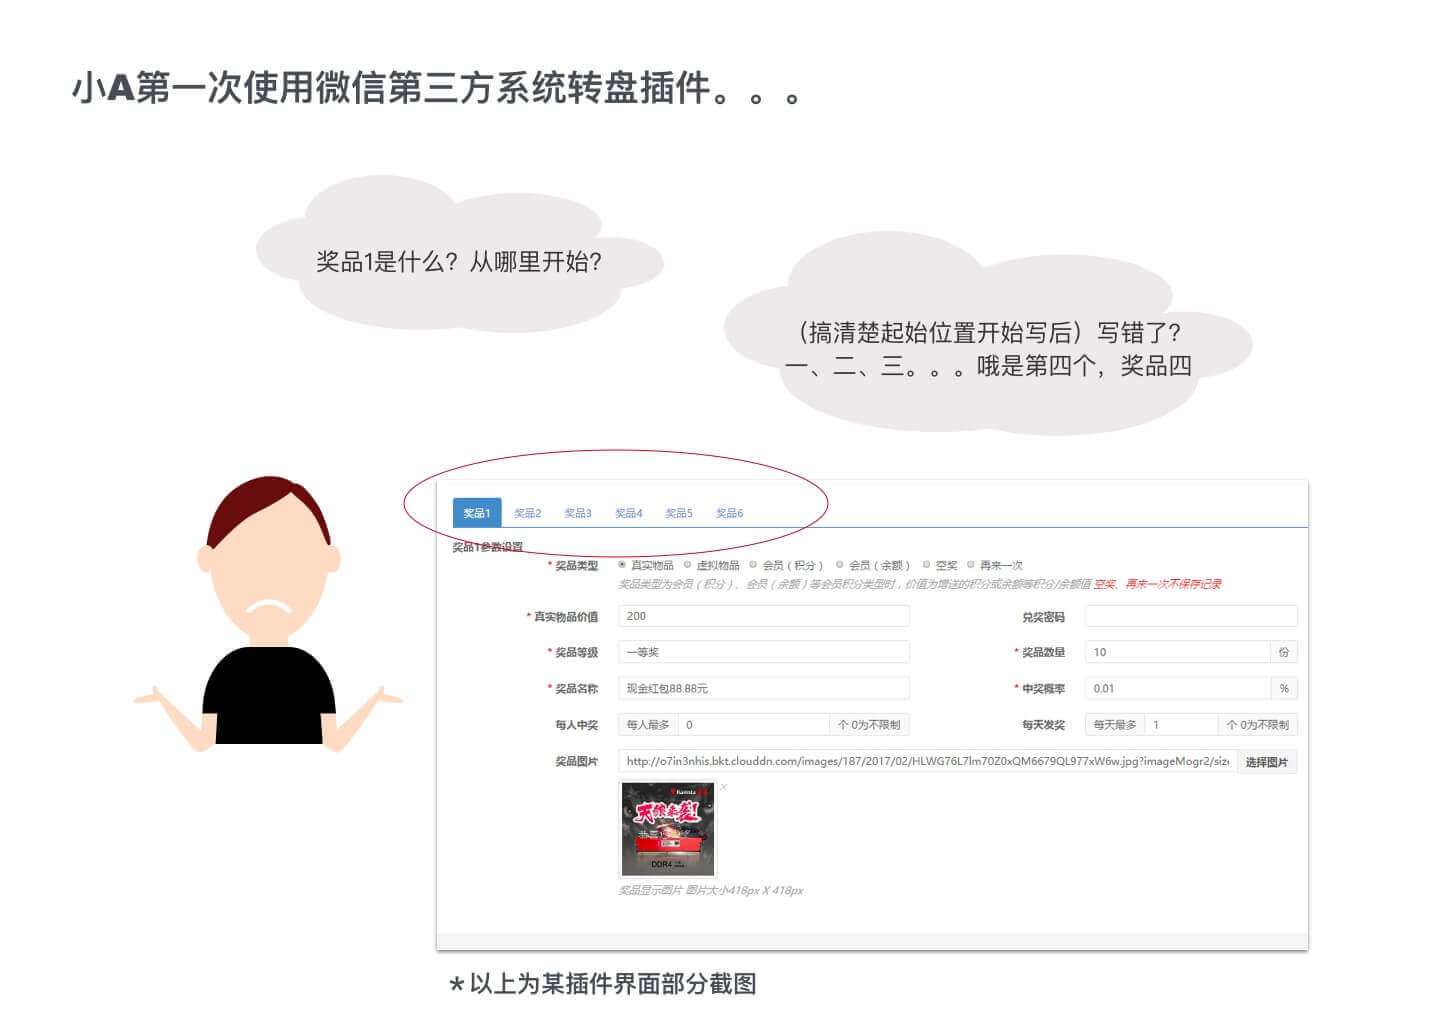
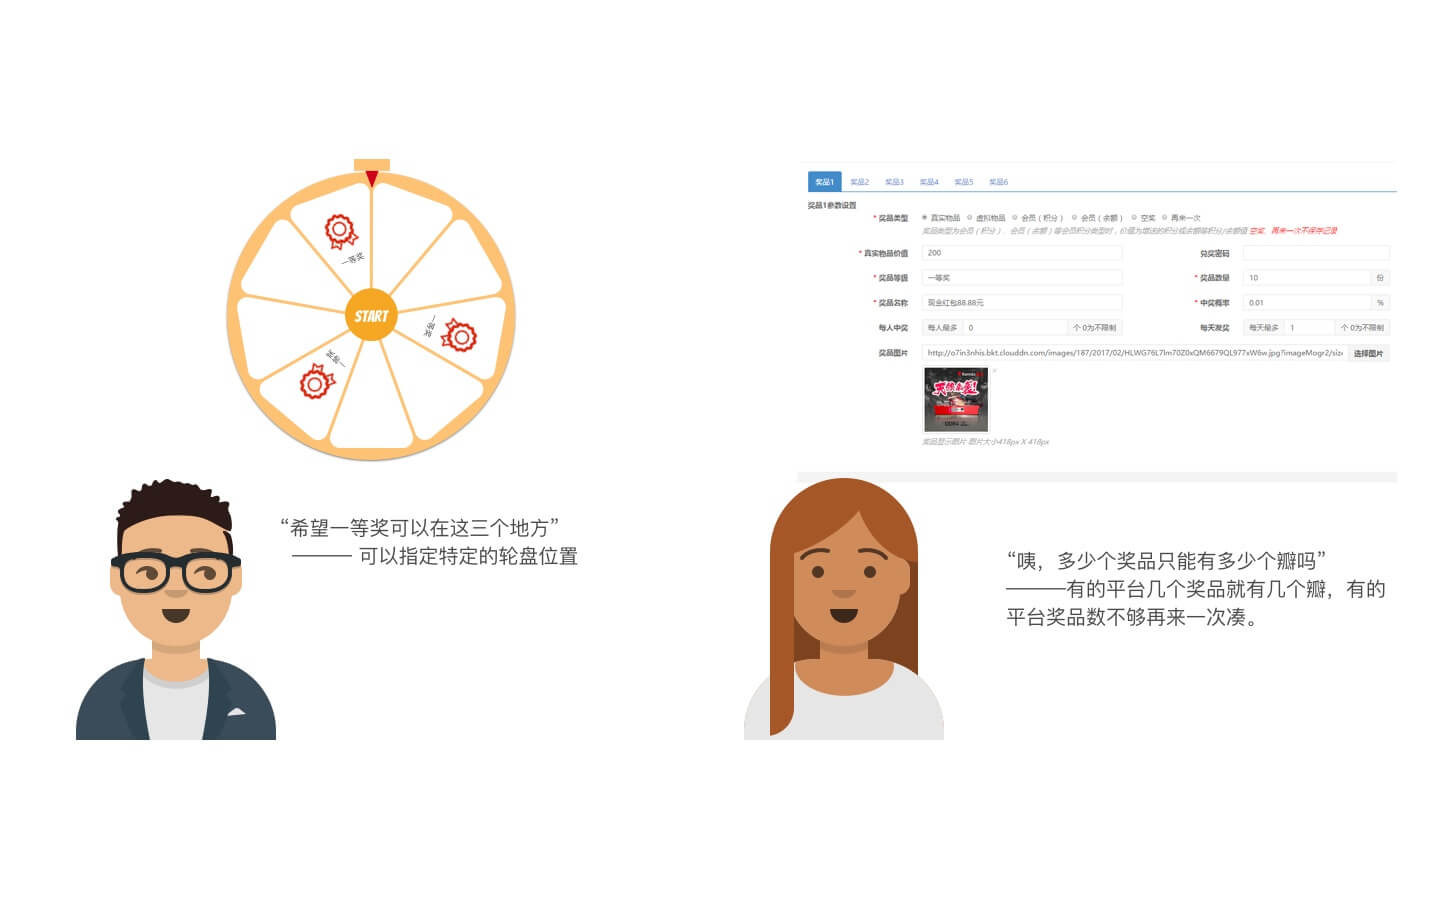
add redesign winlink

diff --git a/portfolio/winlink.html b/portfolio/winlink.html
@@ -58,7 +58,7 @@
                 <div class="pic">
                     <img src="../img/winlink/current.jpg">
                 </div>
-                <p class="paragraph">上图是现有界面的样式，编辑组件的窗口由于位置拥挤，但组件之间无上下文关系，可以独立设置为弹窗。所以，<strong>如何解决在弹窗状态下直观的编辑组件</strong>成了一个难题。</p>
+                <p class="paragraph">上图是现有界面的样式，编辑组件的窗口由于位置拥挤，但组件之间无上下文关系，可以独立设置为弹窗。所以，<strong>如何解决在弹窗状态下将轮盘的内容清晰地进行编辑</strong>成了一个难题。</p>
             </div>
         </section>
 
@@ -82,15 +82,15 @@
             <div class="section-part">
                 <p class="part-head">设计预想</p>
                 <p class="paragraph">
-                    因为只能在弹窗中设置轮盘的相关信息，又希望可以较直观的编辑轮盘每个瓣的信息。所以首先将编辑区域划分为预览区和编辑区。</br>
+                    因为只能在弹窗中设置轮盘的相关信息，又希望可以较直观的编辑轮盘每个瓣的信息。所以首先将编辑区域划分为轮盘区和编辑区。</br>
                     按照这个想法设计出了初稿，但设计完后再仔细看就有问题了：
                 </p>
                 <div class="pic first-design">
                     <img src="../img/winlink/first.png">
                 </div>
                 <p class="paragraph">
-                    • 所有的编辑信息集中于一个界面，不利于后期的功能拓展，容易造成用户焦点迷失。</br>
-                    • 随可以点击任意一个瓣进行编辑，但只有在退出编辑后才能知道编辑后的效果。
+                    • 页面中的功能分布不合理，难以对进行后续的功能拓展。</br>
+                    • 虽然可以点击任意一个瓣进行编辑，但只有在退出编辑后才能知道编辑后的效果，且容易忘记哪个瓣已编辑过。
                 </p>
             </div>
         </section>
@@ -101,7 +101,7 @@
                 <p class="paragraph">再次的设计，针对于以上的问题，做出了以下的改进：</p>
                 <p class="paragraph">
                     • 预览区可以直接预览最终的效果，点击任意一瓣即可边编辑边看到效果。</br>
-                    • 将编辑区的功能拆分成三个tab模块，让用户可以专注于当前模块功能的编辑，不受其它模块功能的影响。
+                    • 将编辑区的功能拆分成三个模块，让用户可以专注于当前模块功能的编辑，不受其它模块功能的影响。
                 </p>
 
                 <div class="pic design">
@@ -111,6 +111,34 @@
             </div>
         </section>
 
+        <section>
+            <div class="section-part">
+                <p class="part-head">反馈</p>
+                <p class="paragraph">将设计放至我所参加的小密圈（交互设计小厨房）中获取反馈，hozin指出了几个改进点：</p>
+                <p class="paragraph">
+                    • tab的应用容易导致用户多次点击检查，增加点击检查负担。</br>
+                    • 轮盘上做交互增加后台负担。</br>
+                    • 轮盘瓣只有9瓣，可以做增值列表。</br>
+                </p>
+
+                <p class="paragraph">看了意见后，我认为：</p>
+                <p class="paragraph">
+                    • 不使用tab，直接罗列选项，超过部分采用滚动条。</br>
+                    • 提交时是提交json，在轮盘中既是在操作数组位置，并不会增加后台的负担。</br>
+                    • 如果采用增值列表的话，大可不需轮盘预览的存在。</br>
+                </p>
+            </div>
+        </section>
+
+        <section>
+            <div class="section-part">
+                <p class="part-head">再再设计</p>
+                <p class="paragraph">根据建议改进，去除轮盘预览，编辑轮盘为增值列表，把每个模块内容平铺出来，让用户一目了然。</p>
+                <div class="pic">
+                    <img src="../img/winlink/redesign-rotary.jpg">
+                </div>
+            </div>
+        </section>
 
 
 

diff --git a/css/article.css b/css/article.css
@@ -152,6 +152,7 @@
 .paragraph{
     padding: 6px 14px 6px 0;
     line-height: 1.5;
+    font-weight: lighter;
 }
 
 /*clt 计算机等级考试网站*/
